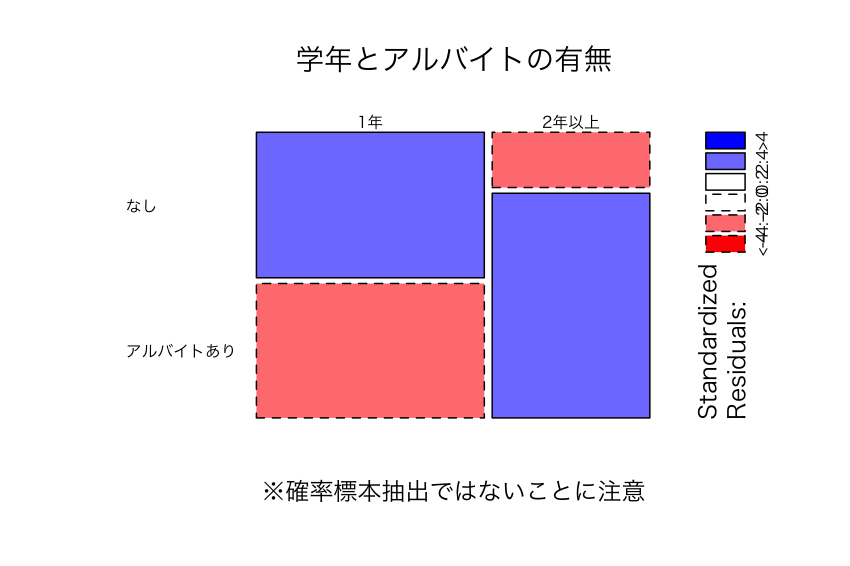
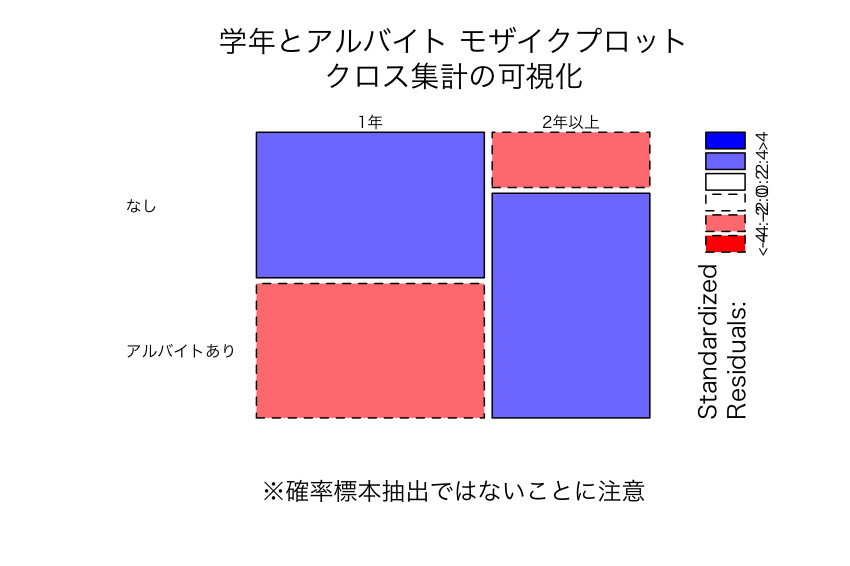
2022-04-24-1122 commit

Changed region(s): [[0.2447, 0.03, 0.7953, 0.1802]]

diff --git a/index.html b/index.html
@@ -23,7 +23,7 @@
 <section>
 <section id="slide-1">
 <h2 id="1"><span class="section-number-2">1.</span> 調査概要</h2>
-<table id="org0ed1383" border="2" cellspacing="0" cellpadding="6" rules="groups" frame="hsides">
+<table id="org2984913" border="2" cellspacing="0" cellpadding="6" rules="groups" frame="hsides">
 <caption class="t-above"><span class="table-number">&#34920;1:</span> 学生意識調査2012 nu12</caption>
 
 <colgroup>
@@ -84,7 +84,7 @@
 <section id="slide-2">
 <h2 id="2"><span class="section-number-2">2.</span> データ構造</h2>
 
-<div id="org7db67b8" class="figure">
+<div id="orgaffd5ec" class="figure">
 <p><img src="figures/nu12-info-reveal-R-ggpairs-01.png" alt="nu12-info-reveal-R-ggpairs-01.png" width="720" />
 </p>
 <p><span class="figure-number">&#22259;1:  </span>学生意識調査2012 nu12</p>
@@ -98,12 +98,12 @@
 </section>
 <section>
 <section id="slide-3">
-<h2 id="3"><span class="section-number-2">3.</span> 学年とサークル部活動の有無</h2>
+<h2 id="3"><span class="section-number-2">3.</span> 学年と課外活動の有無</h2>
 
-<div id="org645bd50" class="figure">
+<div id="orgac41472" class="figure">
 <p><img src="figures/nu12-info-reveal-R-mosaicplot-D02-D08.png" alt="nu12-info-reveal-R-mosaicplot-D02-D08.png" width="640" />
 </p>
-<p><span class="figure-number">&#22259;2:  </span>学年とアルバイトの有無</p>
+<p><span class="figure-number">&#22259;2:  </span>学年と課外活動 モザイクプロット</p>
 </div>
 
 
@@ -115,18 +115,12 @@
 </section>
 <section>
 <section id="slide-4">
-<h2 id="4"><span class="section-number-2">4.</span> 学年とサークル部活動の有無の割合</h2>
-<pre class="example">
-nu12-info-reveal-R-plotmeans-d08-D02.png
-</pre>
+<h2 id="4"><span class="section-number-2">4.</span> 学年と課外活動 割合 1</h2>
 
-
-
-
-<div id="org808f6d6" class="figure">
-<p><img src="figures/nu12-info-reveal-R-plotmeans-d08-D02.png" alt="nu12-info-reveal-R-plotmeans-d08-D02.png" width="640" />
+<div id="org6ba8150" class="figure">
+<p><img src="figures/nu12-info-reveal-R-plotmeans-d08-D02-1.png" alt="nu12-info-reveal-R-plotmeans-d08-D02-1.png" width="640" />
 </p>
-<p><span class="figure-number">&#22259;3:  </span>学年とサークル部活動の有無の割合</p>
+<p><span class="figure-number">&#22259;3:  </span>学年と課外活動 割合 1</p>
 </div>
 
 
@@ -139,13 +133,16 @@ nu12-info-reveal-R-plotmeans-d08-D02.png
 </section>
 <section>
 <section id="slide-5">
-<h2 id="5"><span class="section-number-2">5.</span> 学年とアルバイトの有無</h2>
+<h2 id="5"><span class="section-number-2">5.</span> 学年と課外活動 割合 2</h2>
 
-<div id="org737606e" class="figure">
-<p><img src="figures/nu12-info-reveal-R-mosaicplot-D02-D05.png" alt="nu12-info-reveal-R-mosaicplot-D02-D05.png" width="640" />
+<div id="orgdca8671" class="figure">
+<p><img src="figures/nu12-info-reveal-R-plotmeans-d08-D02-2.png" alt="nu12-info-reveal-R-plotmeans-d08-D02-2.png" width="640" />
 </p>
-<p><span class="figure-number">&#22259;4:  </span>学年とアルバイトの有無</p>
+<p><span class="figure-number">&#22259;4:  </span>学年と課外活動 割合 2 (部分表示)</p>
 </div>
+
+
+
 
 
 
@@ -155,14 +152,13 @@ nu12-info-reveal-R-plotmeans-d08-D02.png
 </section>
 <section>
 <section id="slide-6">
-<h2 id="6"><span class="section-number-2">6.</span> 学年とアルバイトの有無の割合</h2>
+<h2 id="6"><span class="section-number-2">6.</span> 学年とアルバイト</h2>
 
-<div id="orgfe4b737" class="figure">
-<p><img src="figures/nu12-info-reveal-R-plotmeans-d05-D02.png" alt="nu12-info-reveal-R-plotmeans-d05-D02.png" width="640" />
+<div id="org63ecc1b" class="figure">
+<p><img src="figures/nu12-info-reveal-R-mosaicplot-D02-D05.png" alt="nu12-info-reveal-R-mosaicplot-D02-D05.png" width="640" />
 </p>
-<p><span class="figure-number">&#22259;5:  </span>学年とアルバイトの有無の割合</p>
+<p><span class="figure-number">&#22259;5:  </span>学年とアルバイト モザイクプロット</p>
 </div>
-
 
 
 
@@ -172,14 +168,13 @@ nu12-info-reveal-R-plotmeans-d08-D02.png
 </section>
 <section>
 <section id="slide-7">
-<h2 id="7"><span class="section-number-2">7.</span> 最もお金をかけているもの</h2>
+<h2 id="7"><span class="section-number-2">7.</span> 学年とアルバイト 割合 1</h2>
 
-<div id="orgf5d5b0e" class="figure">
-<p><img src="figures/nu12-info-reveal-R-pie-Q14.png" alt="nu12-info-reveal-R-pie-Q14.png" width="480" />
+<div id="org342cb99" class="figure">
+<p><img src="figures/nu12-info-reveal-R-plotmeans-d05-D02-1.png" alt="nu12-info-reveal-R-plotmeans-d05-D02-1.png" width="640" />
 </p>
-<p><span class="figure-number">&#22259;6:  </span>大学生活で最もお金をかけているもの</p>
+<p><span class="figure-number">&#22259;6:  </span>学年とアルバイトの有無の割合 1</p>
 </div>
-
 
 
 
@@ -190,7 +185,43 @@ nu12-info-reveal-R-plotmeans-d08-D02.png
 </section>
 <section>
 <section id="slide-8">
-<h2 id="8"><span class="section-number-2">8.</span> under construction</h2>
+<h2 id="8"><span class="section-number-2">8.</span> 学年とアルバイト 割合 2</h2>
+
+<div id="org87afb15" class="figure">
+<p><img src="figures/nu12-info-reveal-R-plotmeans-d05-D02-2.png" alt="nu12-info-reveal-R-plotmeans-d05-D02-2.png" width="640" />
+</p>
+<p><span class="figure-number">&#22259;7:  </span>学年とアルバイトの有無の割合 2 (部分表示)</p>
+</div>
+
+
+
+
+
+
+
+</section>
+</section>
+<section>
+<section id="slide-9">
+<h2 id="9"><span class="section-number-2">9.</span> 最もお金をかけているもの</h2>
+
+<div id="orgccb6944" class="figure">
+<p><img src="figures/nu12-info-reveal-R-pie-Q14.png" alt="nu12-info-reveal-R-pie-Q14.png" width="480" />
+</p>
+<p><span class="figure-number">&#22259;8:  </span>大学生活で最もお金をかけているもの</p>
+</div>
+
+
+
+
+
+
+
+</section>
+</section>
+<section>
+<section id="slide-10">
+<h2 id="10"><span class="section-number-2">10.</span> under construction</h2>
 <ul>
 <li>under construction</li>
 
